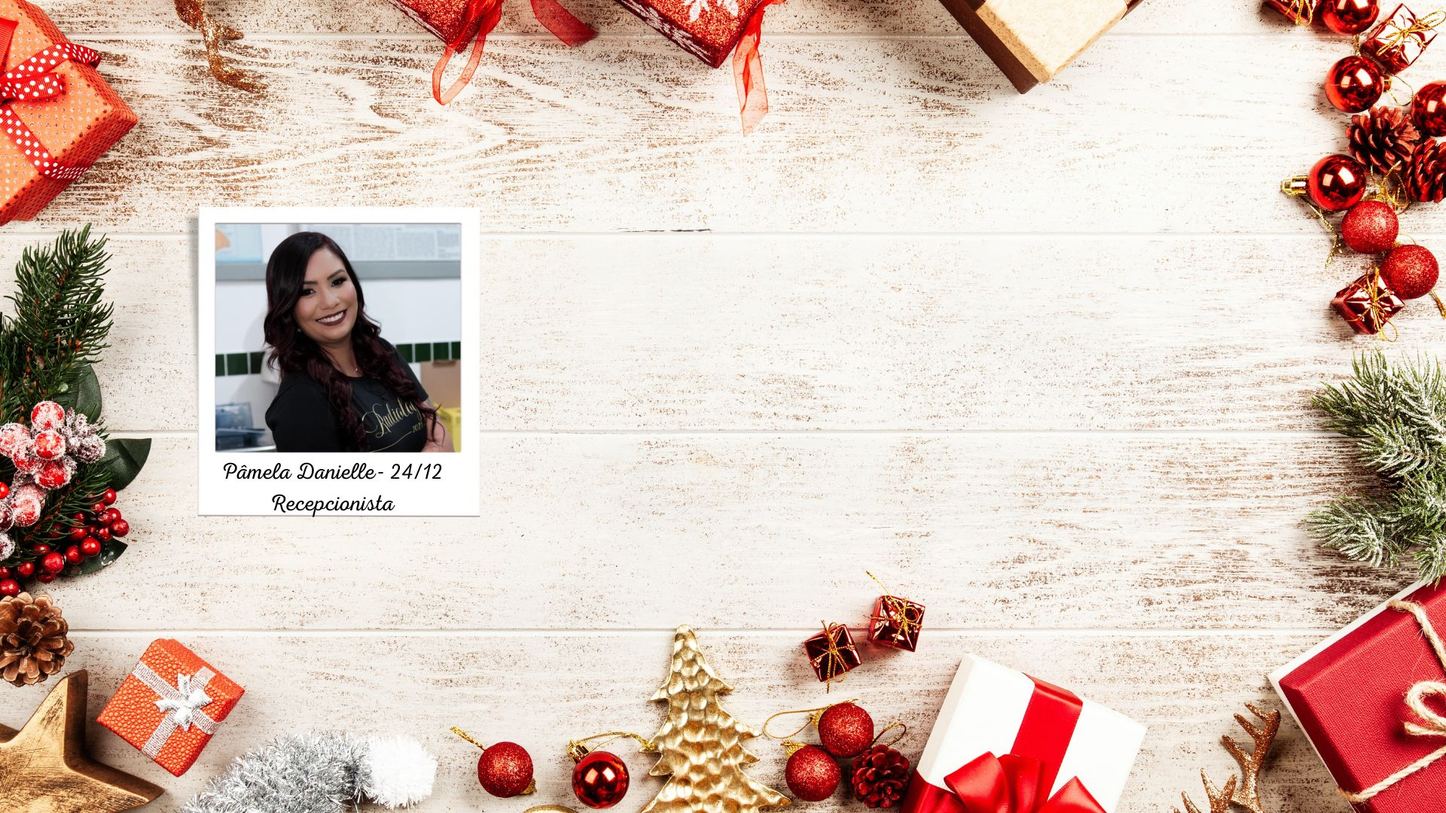
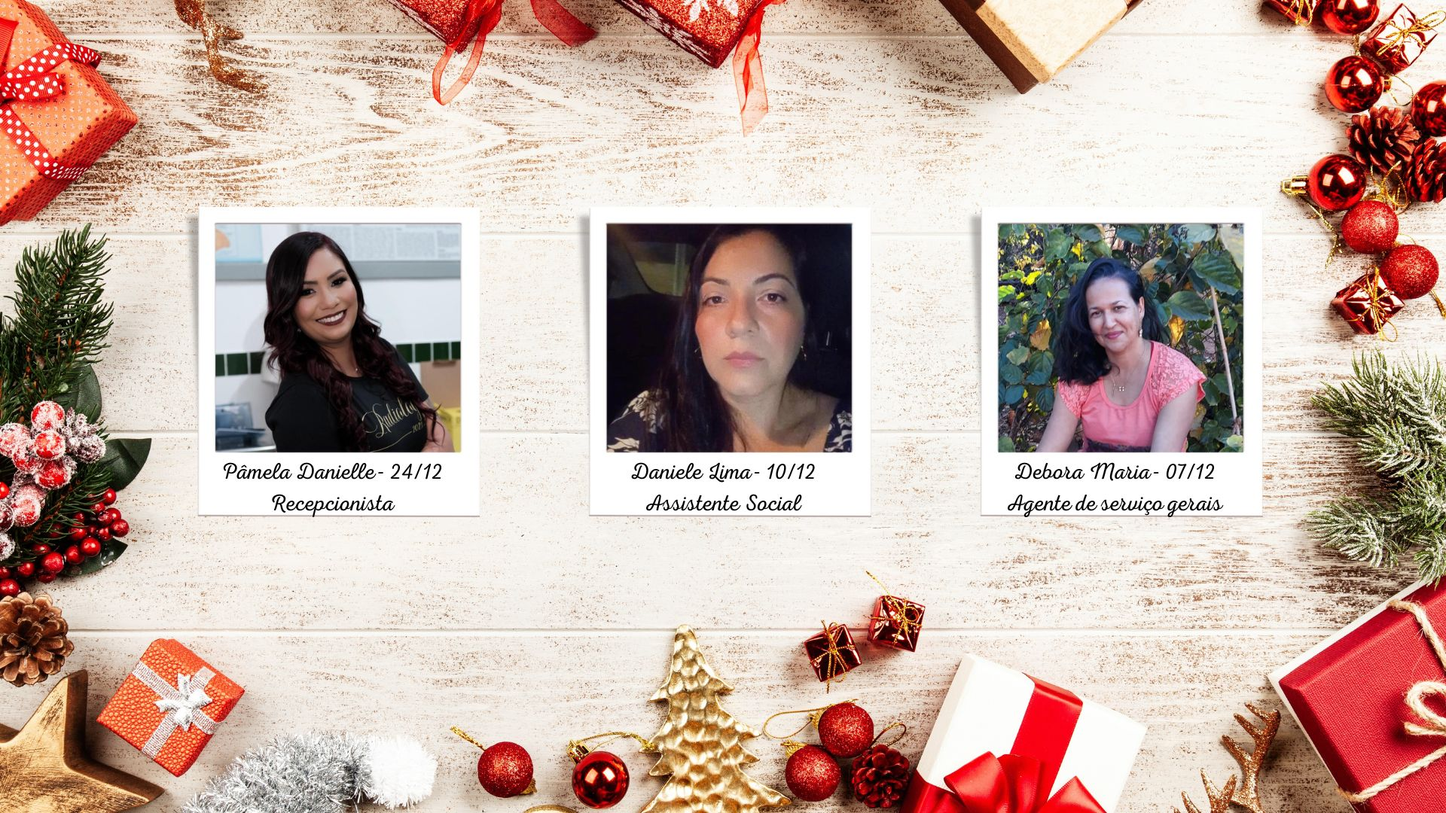
att3

Changed region(s): [[0.6562, 0.275, 0.875, 0.6417], [0.375, 0.2444, 0.5938, 0.6417]]

diff --git a/index.html b/index.html
@@ -41,6 +41,10 @@
         <img src="6.jpg" alt="" style="max-width: 100%; height: auto;">
       </div>
 
+      <div class="slide">
+        <img src="7.jpg" alt="" style="max-width: 100%; height: auto;">
+      </div>
+
     <!-- RECOMENDAÇÕES DA UPA (LOOKER STUDIO) -->
     <div class="slide">
       <iframe width="600" height="338" src="https://lookerstudio.google.com/embed/reporting/c111e834-20d8-47c8-8ba2-06db3c8d7c7c/page/AFr8C" frameborder="0" style="border:0" allowfullscreen></iframe>
